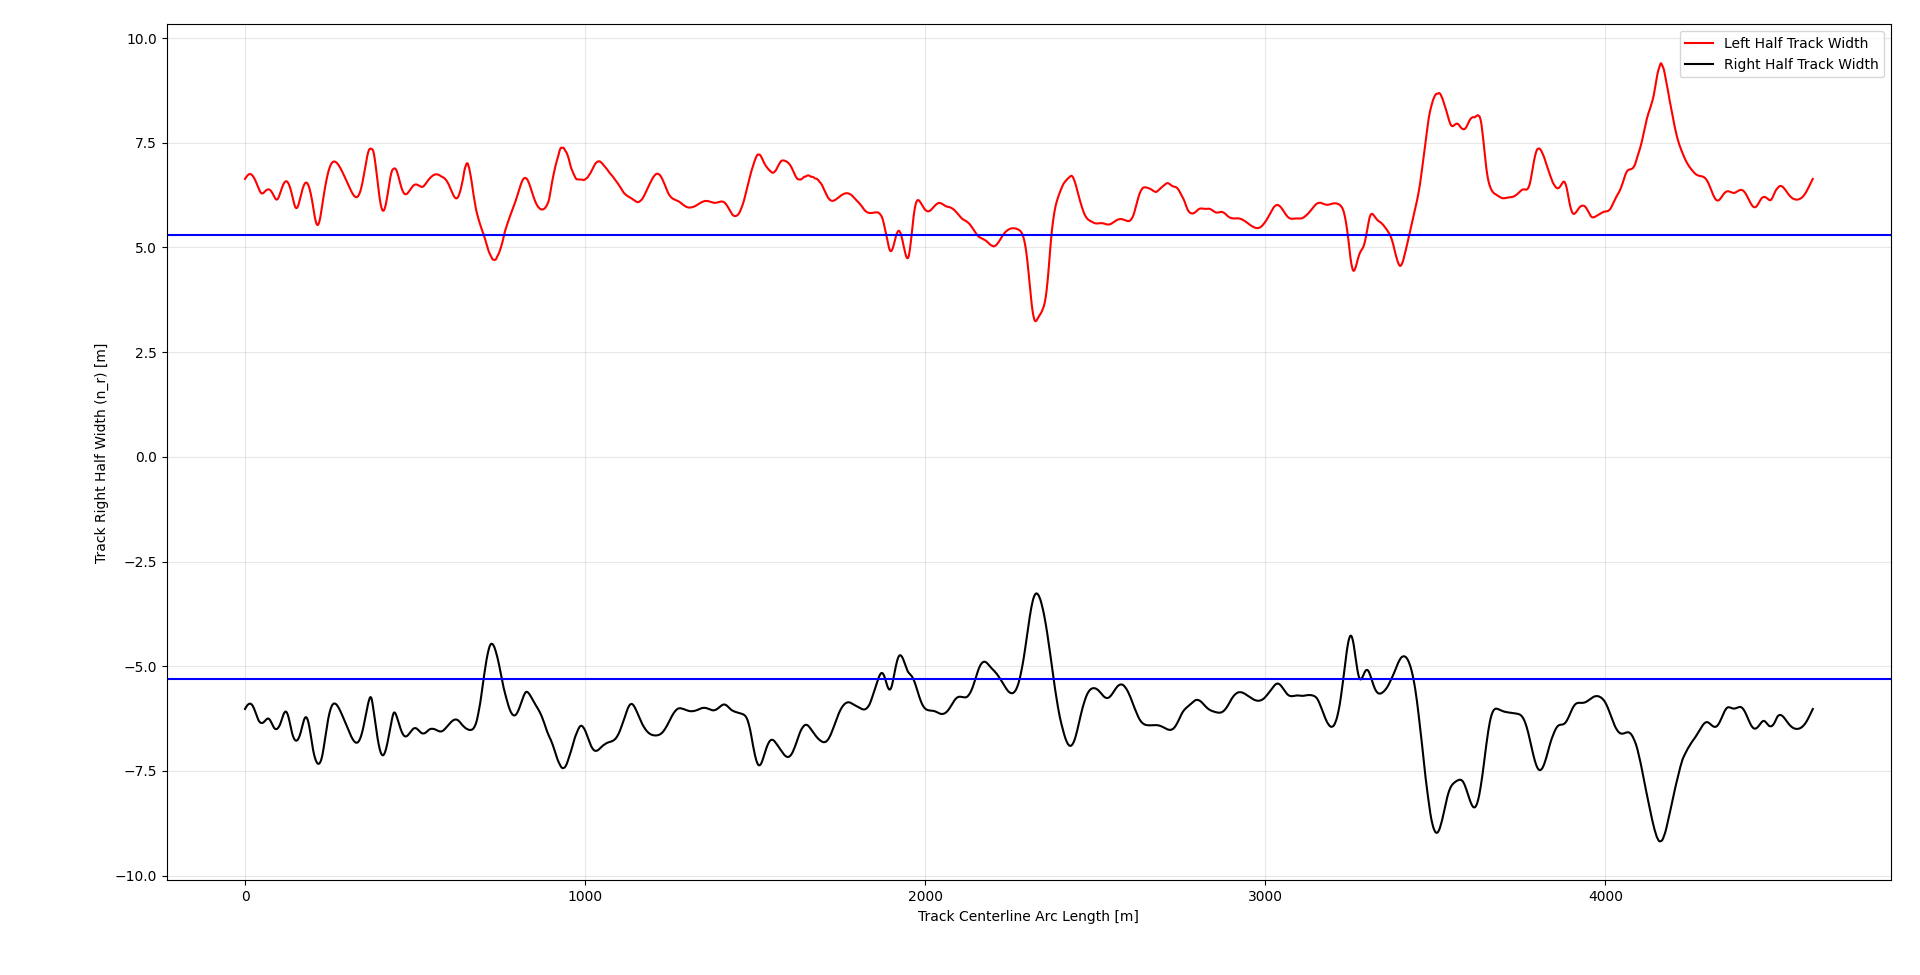
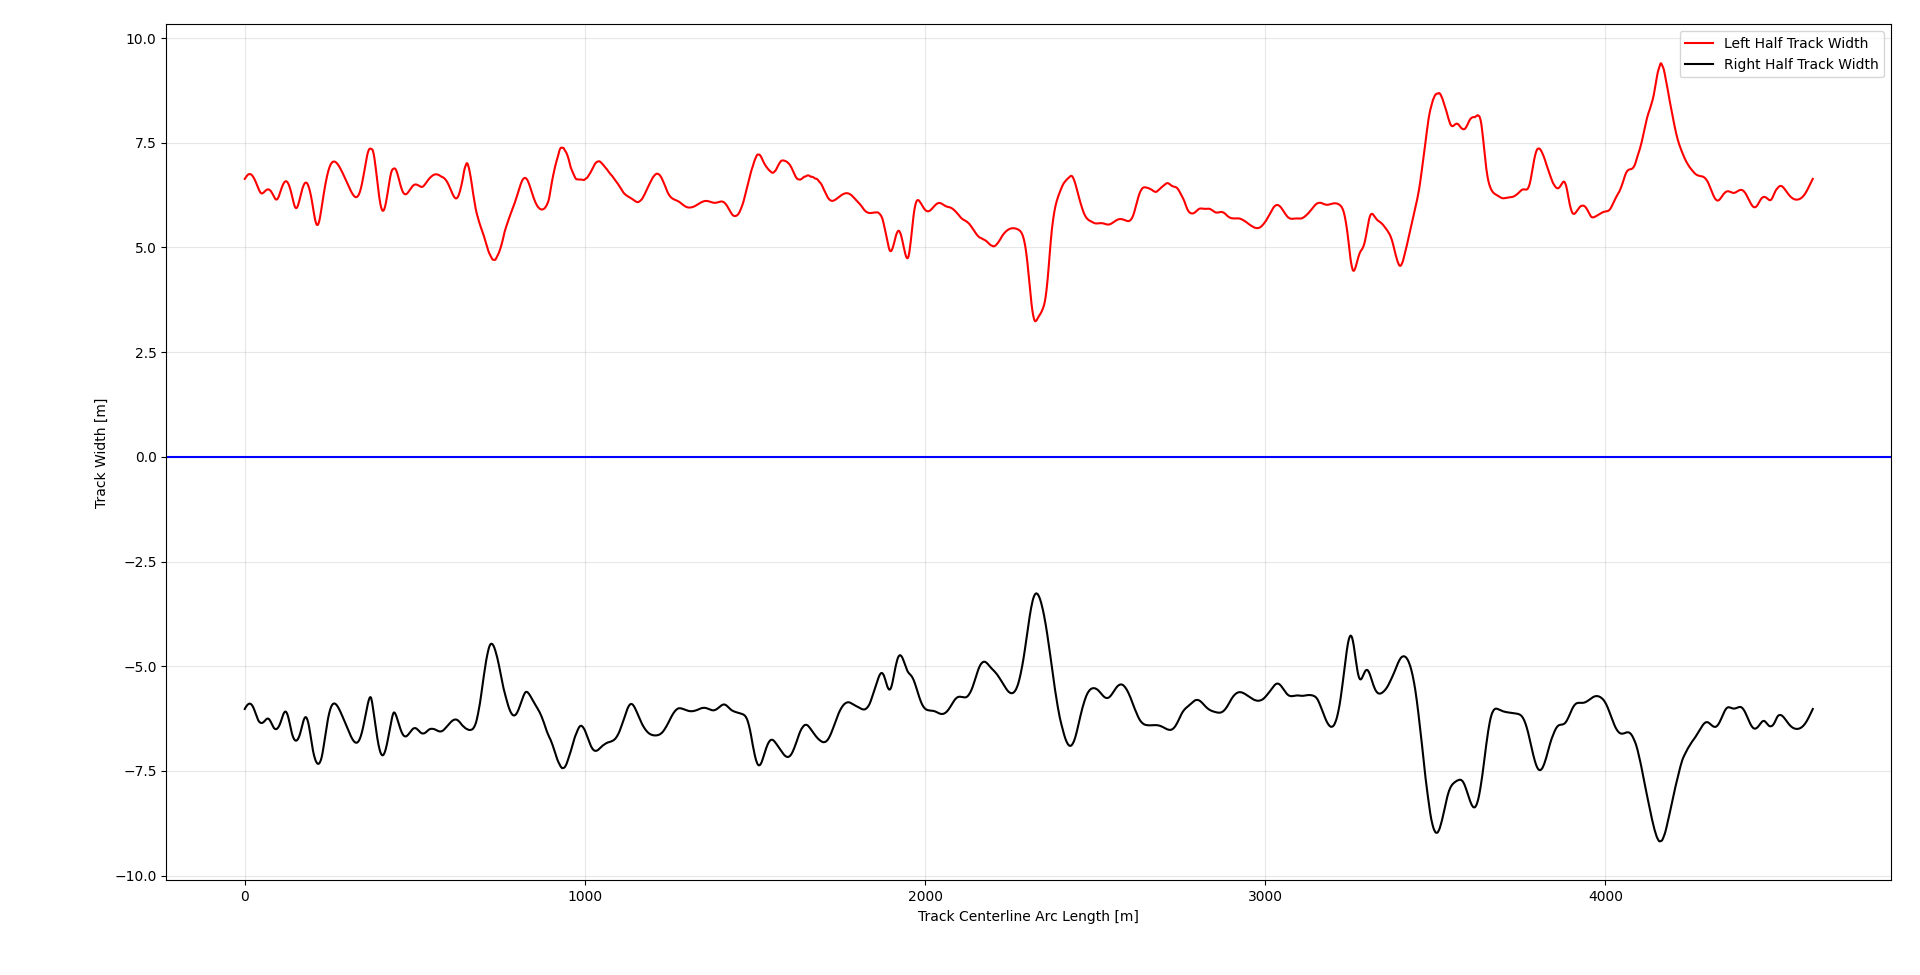
Plot Corrections

diff --git a/Track_Models/src/Track_Model_Optimization.py b/Track_Models/src/Track_Model_Optimization.py
@@ -583,16 +583,11 @@ fig, ax1 = plt.subplots(figsize=(10,6))
 # Left Half Track Width
 ax1.plot(track_data.arc_s,track_data.nl,color='red',label='Left Half Track Width')
 ax1.set_xlabel('Track Centerline Arc Length [m]')
-ax1.set_ylabel('Track Left Half Width (n_l) [m]')
 ax1.grid(True,alpha=0.3)
-ax1.axhline(nl_0,color='blue')
-
 # Right Half Track Width
 ax1.plot(track_data.arc_s,track_data.nr,color='black',label='Right Half Track Width')
-ax1.set_xlabel('Track Centerline Arc Length [m]')
-ax1.set_ylabel('Track Right Half Width (n_r) [m]')
-ax1.grid(True,alpha=0.3)
-ax1.axhline(nr_0,color='blue')
+ax1.set_ylabel('Track Width [m]')
+ax1.axhline(0,color='blue')
 ax1.legend()
 plt.tight_layout()
 plt.show()
